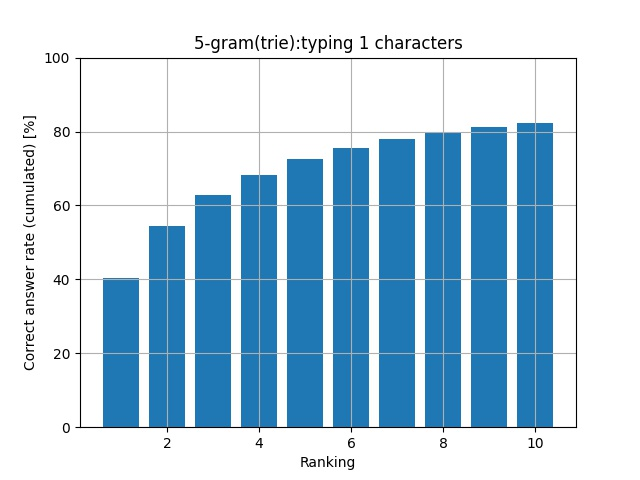
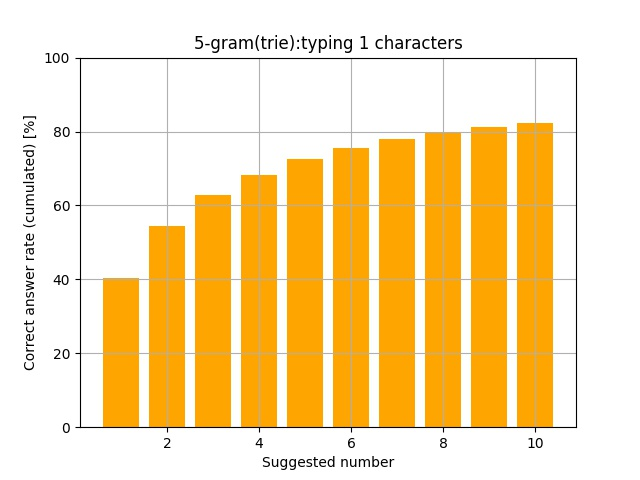
Candarように変更を追加

diff --git a/trie_ngram_model.py b/trie_ngram_model.py
@@ -6,7 +6,7 @@ import json
 import numpy as np
 from assess_keystroke import assess_file_keystroke, assess_mml_keystroke
 from assess_accuracy import assess_file_accuracy, assess_mml_accuracy
-from collections import OrderedDict
+from collections import OrderedDict,deque
 from pprint import pprint
 
 class TrieNode:
@@ -40,7 +40,7 @@ class TrieNgramModel():
 
     def setup(self):
         try:
-            with open('trie_root', 'rb') as f:
+            with open('trie_root_raw', 'rb') as f:
                 self.root = pickle.load(f)
         except:
             self.root = TrieNode('root')
@@ -48,11 +48,14 @@ class TrieNgramModel():
 
     # トライ木の作成
     def learning(self):
+        excepted_files = deque()
+
         mml_lar = open("/mnt/c/mizar/mml.lar", "r")
         mml = []
         for i in mml_lar.readlines():
             mml.append(os.path.join('./learning_data', i.replace('\n', '.json')))
         mml_lar.close()
+        # FIXME:本来は1100
         for file_path in mml[0:1100]:
             try:
                 with open(file_path, 'r') as f:
@@ -64,8 +67,9 @@ class TrieNgramModel():
                 for line in article:
                     length = len(line)
                     for idx in range(1, length):
+                        # FIXME:生のトークンになっているため注意
                         # 予測対象のトークンを取得
-                        token = line[idx][1]
+                        token = line[idx][0]
                         parent_node = None
                         node = None
                         diff = 0
@@ -76,7 +80,8 @@ class TrieNgramModel():
                         for j in reversed(range(idx-N+1+diff, idx)):
                             if j == idx-1:
                                 parent_node = self.root
-                            node_name = line[j][1]
+                            # FIXME: 生のトークンになっているため，クラスにしたければline[j][1]にする必要がある
+                            node_name = line[j][0]
                             # 既に同名のノードが存在すれば取得
                             if node_name in parent_node.children:
                                 node = parent_node.children[node_name]
@@ -95,10 +100,14 @@ class TrieNgramModel():
                             parent_node = node
             except Exception as e:
                 print(e)
+                excepted_files.append(file_path)
                 continue
         
-        with open('./trie_root', 'wb') as f:
+        # FIXME:生のトークン木と間違えないようにコメントアウト
+        with open('./trie_root_raw', 'wb') as f:
             pickle.dump(self.root, f)
+        
+        print(excepted_files)
 
     
     def predict(self, user_input, parsed_input, type_to_symbols, variables, labels):
@@ -110,7 +119,8 @@ class TrieNgramModel():
         for i in range(len(parsed_input_reversed)):
             # 入力は型トークン
             # 例：「__M_」「__variable_」など
-            token = parsed_input_reversed[i]
+            # FIXME:評価のためuser_input_reversed[i]としているが，本来はparsed_input_reversed[i]
+            token = user_input_reversed[i]
             # ユーザが利用していて，登録されていない変数を保存
             if token == '__variable_' and user_input_reversed[i] not in set(variables):
                 variables.append(user_input_reversed[i])
@@ -178,7 +188,7 @@ if __name__ == '__main__':
     # all_result, in_suggest_cnt, all_token_nums = assess_file_accuracy(
     #     'scmfsa_2.json', trie_model)
 
-    assess_mml_accuracy(trie_model)
-    np.set_printoptions(precision=1)
+    # assess_mml_accuracy(trie_model)
+    # np.set_printoptions(precision=1)
     elapsed_time = time.time() - start_time
-    print(f"elapsed_time:{elapsed_time}")
+    print(f"N:{trie_model.N}, elapsed_time:{elapsed_time}")

diff --git a/assess_accuracy.py b/assess_accuracy.py
@@ -119,6 +119,8 @@ def assess_mml_accuracy(model):
     for i in mml_lar.readlines():
         mml.append(i.replace('\n', '.json'))
     mml_lar.close()
+
+    excepted_files = deque()
     for file_path in mml[1100:1356]:
         print(file_path)
         try:
@@ -126,6 +128,7 @@ def assess_mml_accuracy(model):
                 file_path, model)
         except Exception as e:
             print(e)
+            excepted_files.append(file_path)
             continue
     
         predictable_num += file_predictable_num
@@ -140,21 +143,19 @@ def assess_mml_accuracy(model):
 
     print()
     print(model.N)
-    print(all_result)
+    pprint(all_result)
     print(prediction_times)
+    pprint(excepted_files)
 
     for i in range(Input_Length):
         prediction_result = all_result[i]
         draw(model.N, prediction_result, prediction_times, i)
         # 入力済みのi+1文字以下は予測対象外なので除外
         prediction_times -= all_token_nums[i+1]
-    
-
-
 
 
 def draw(N, prediction_result, prediction_times, i):
-    title = f'{N}-gram(trie)):typing {i} characters'
+    title = f'{N}-gram(raw)-typing {i} characters'
     plt.title(title)
     plt.xlabel('Suggested number')
     plt.ylabel('Correct answer rate (cumulated) [%]')
@@ -166,7 +167,7 @@ def draw(N, prediction_result, prediction_times, i):
 
     left = np.array([i+1 for i in range(len(result))])
     height = np.array(result.cumsum()/total) * 100
-    plt.bar(left, height)
+    plt.bar(left, height, color="blue")
     count = 0
     for x, y in zip(left, height):
         plt.text(x, y, '', ha='center', va='bottom', fontsize=7)
